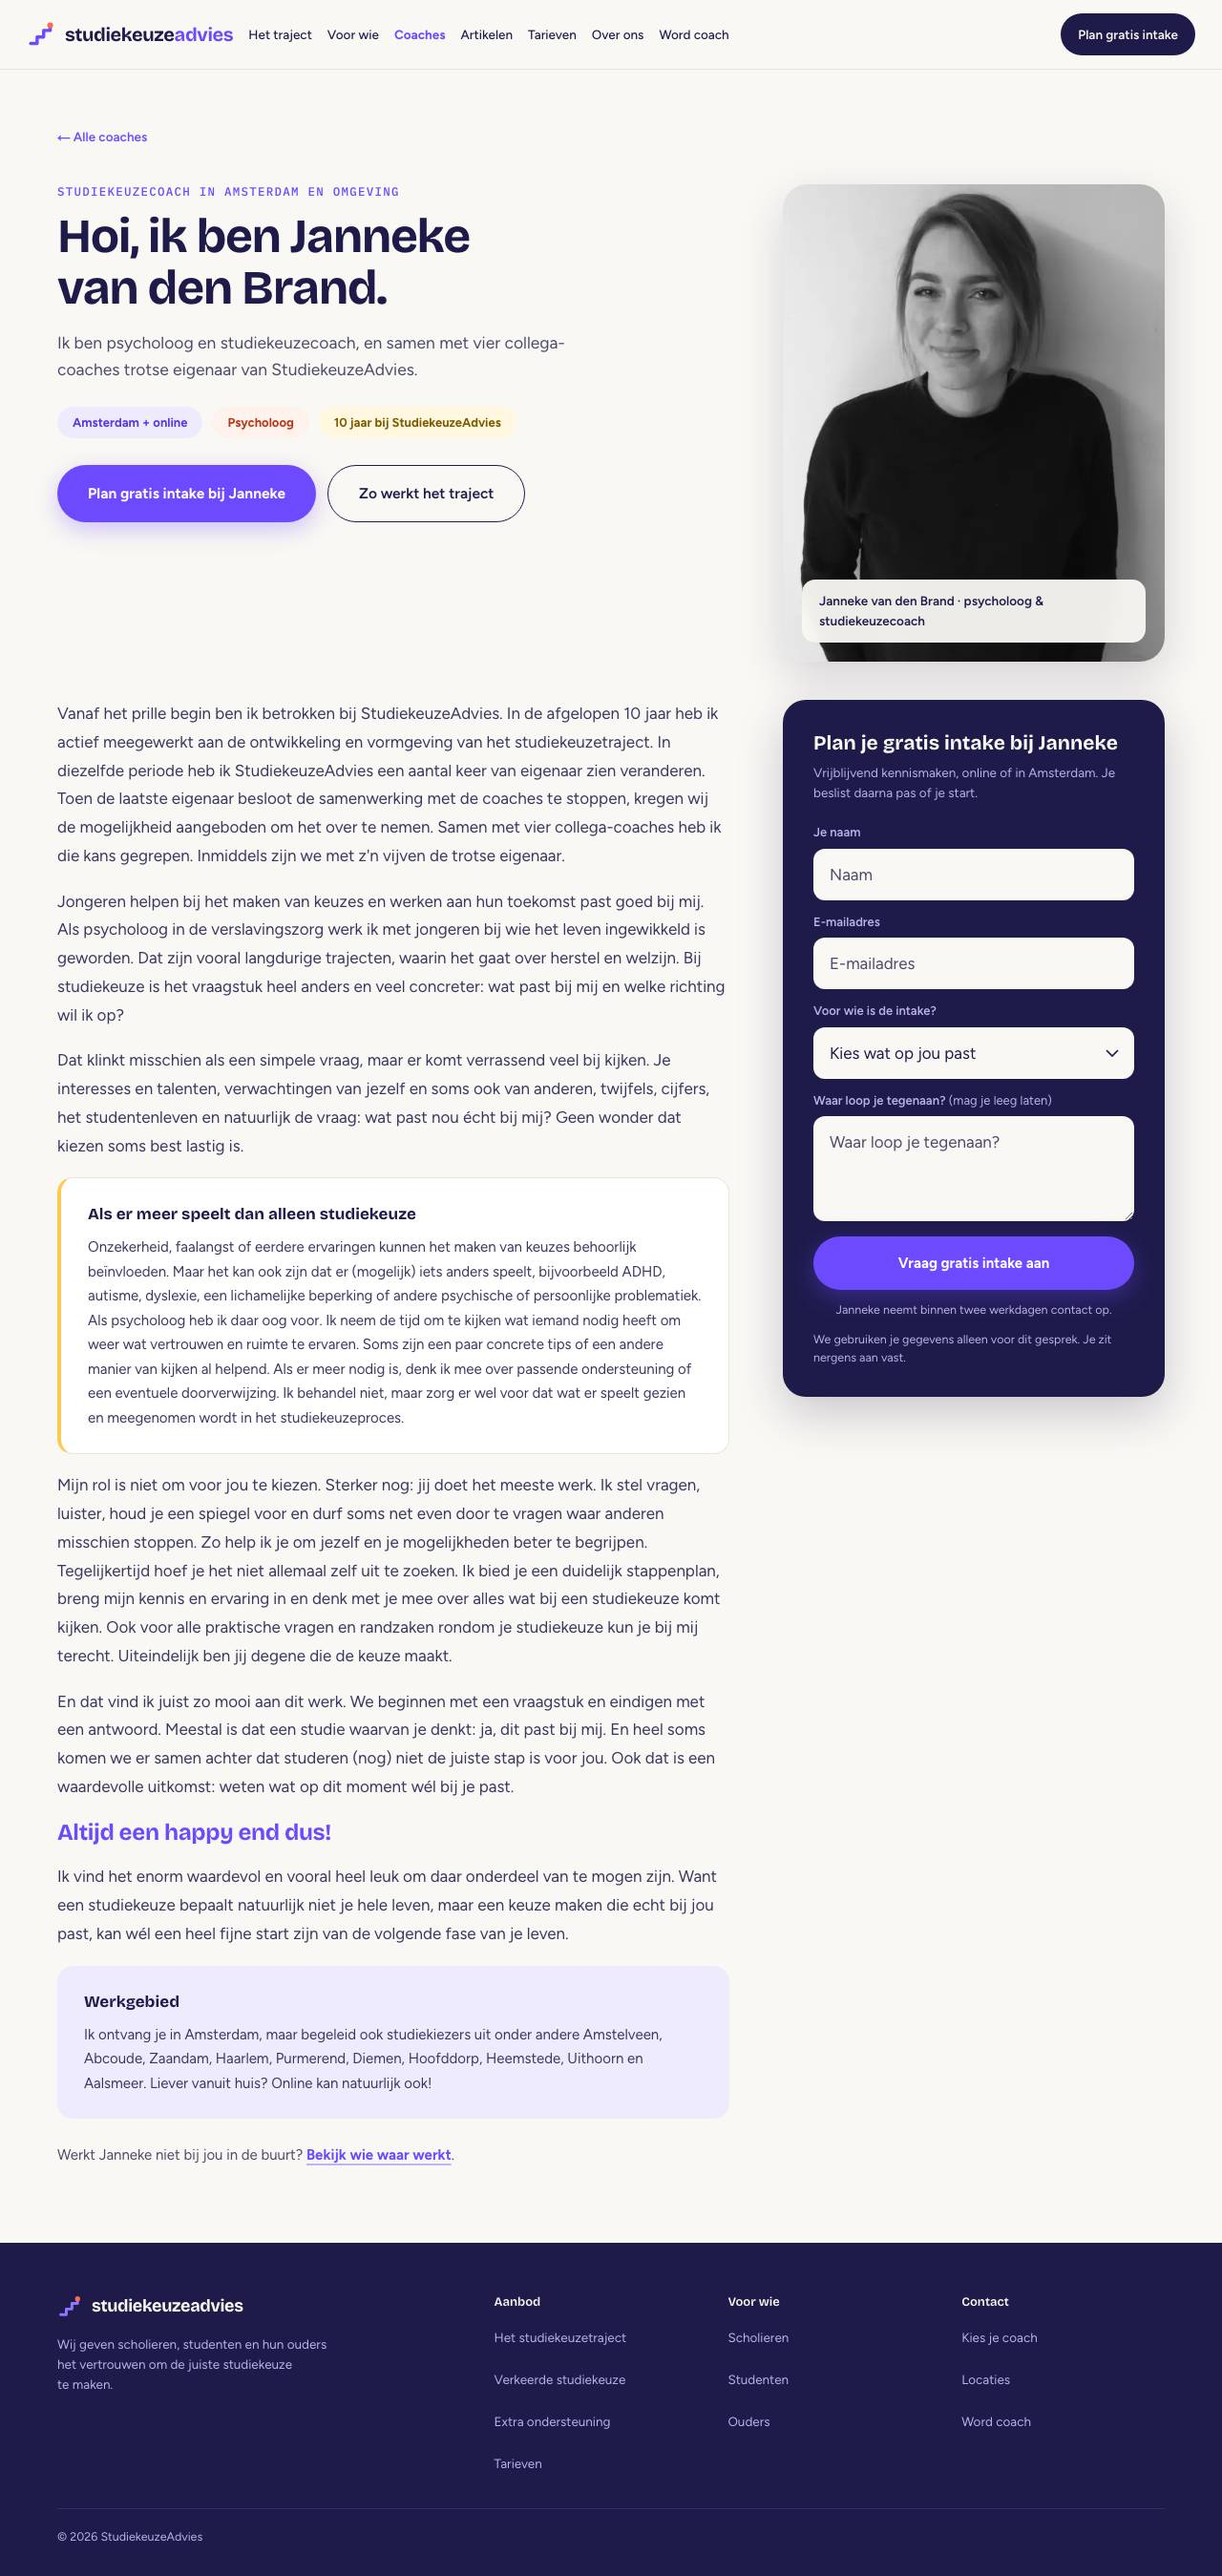
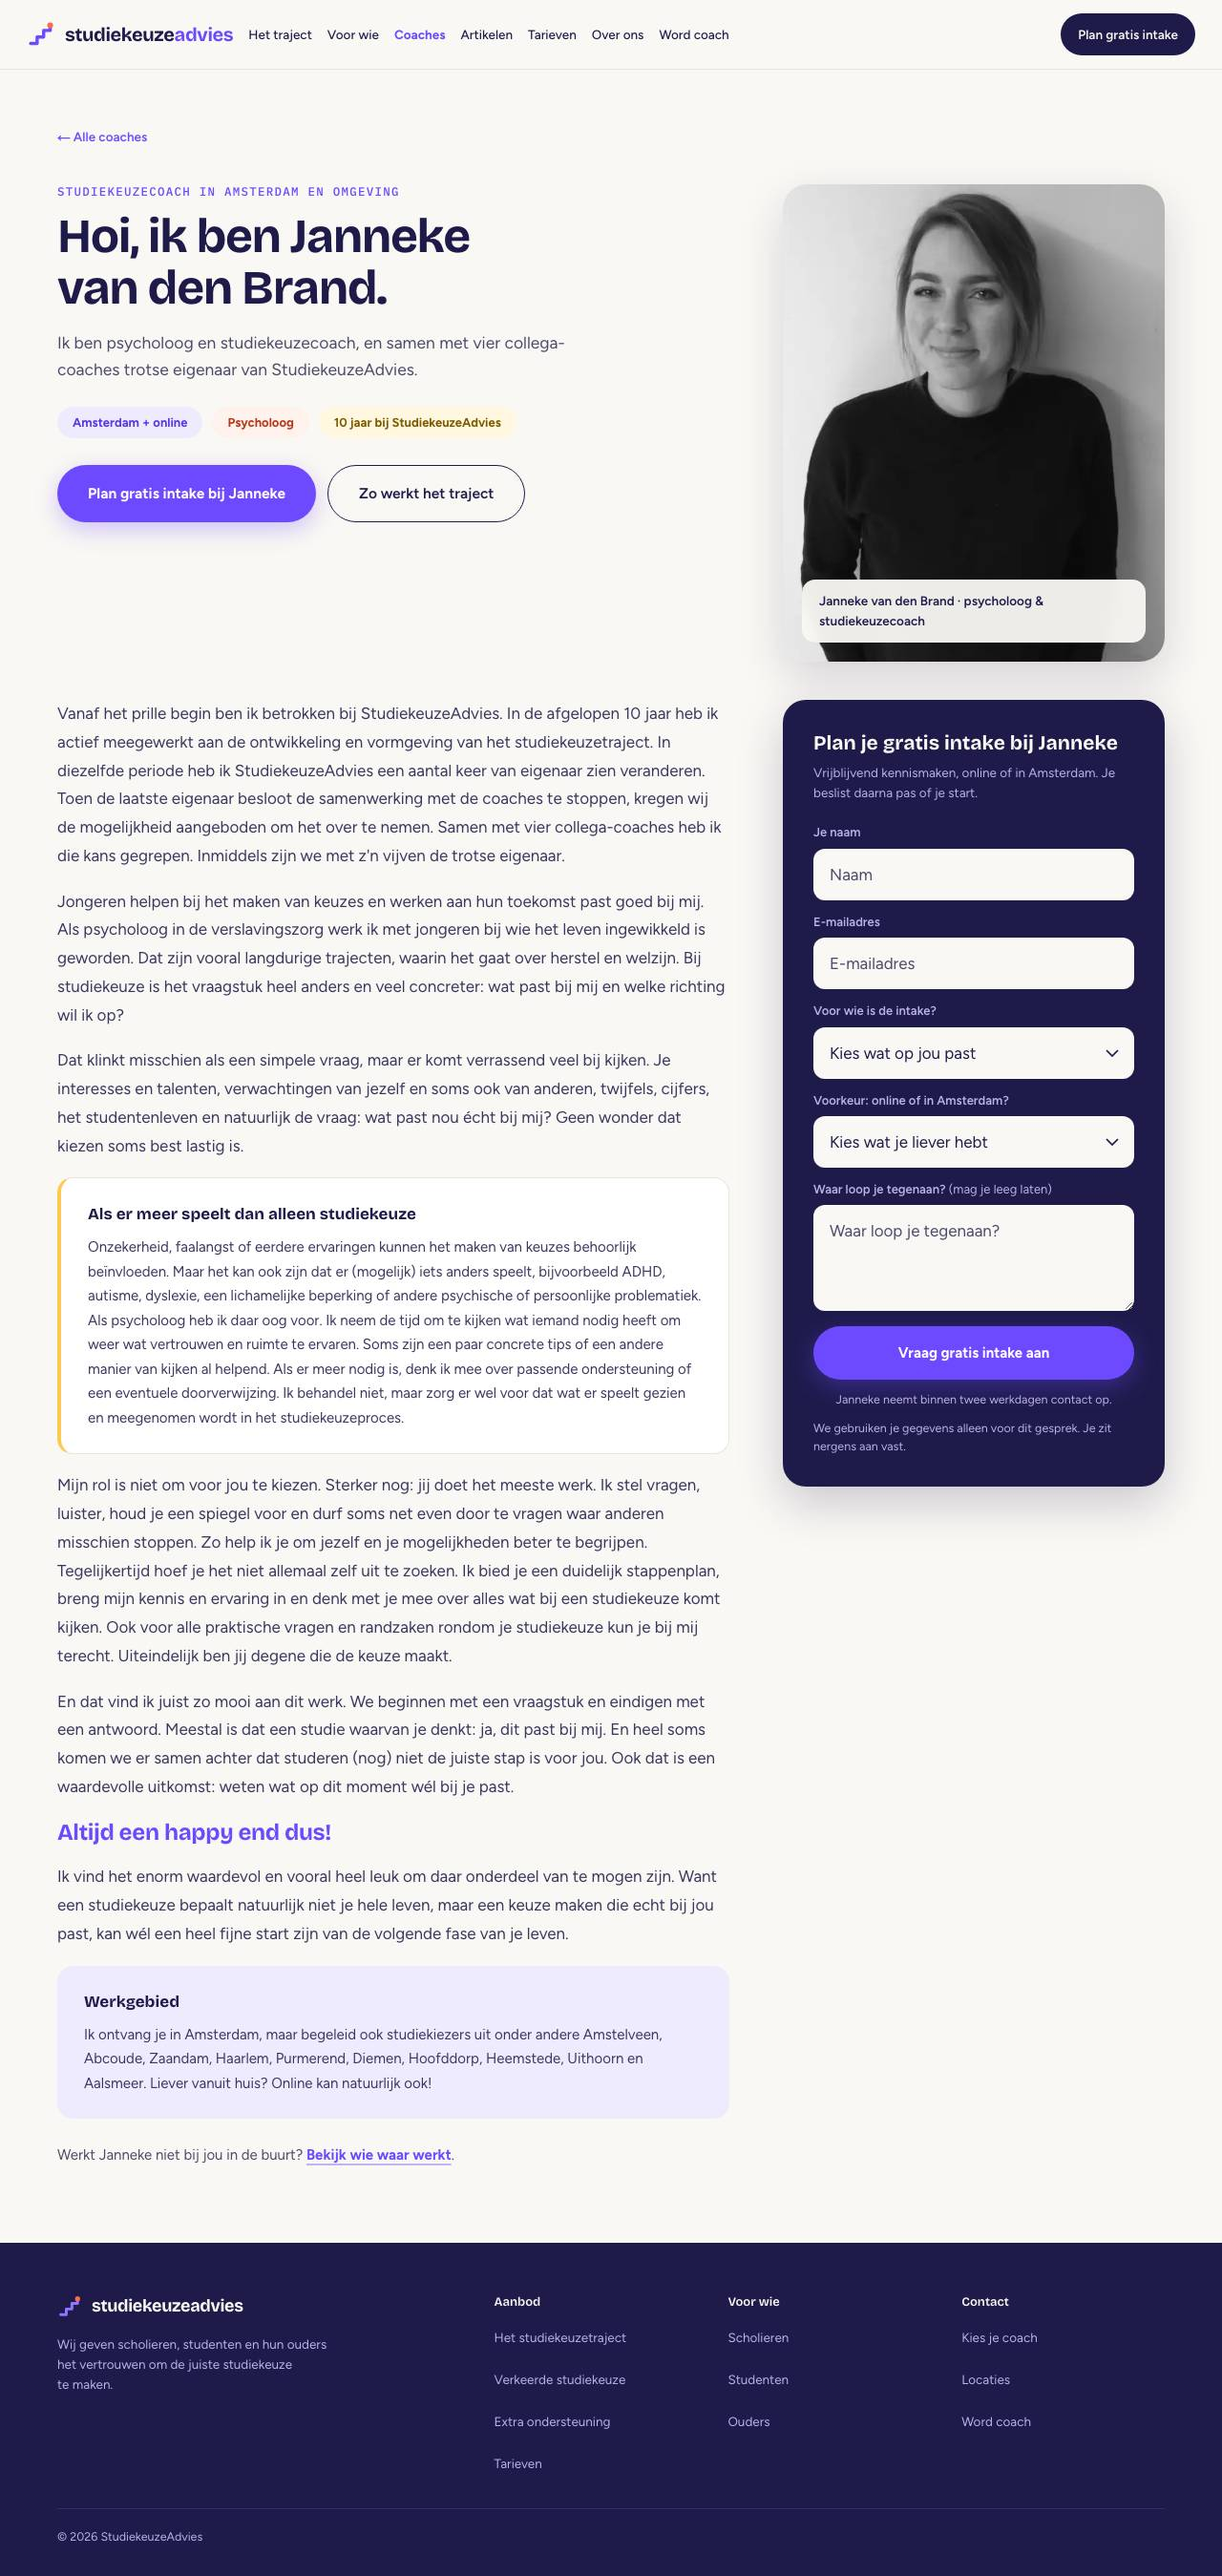
Restore the three lines that drifted from the client's copy
The copy review found three changes with no recorded reason. This puts the
client's text back:

- Janneke's intake card asks its second question again, "Voorkeur: online
  of in Amsterdam?" (Online / In Amsterdam / Geen voorkeur). It is the new
  optional `voorkeur` field; the town comes from the coach or the city the
  form sends to, and the mail prints the answer under the situation.
- /coach-worden says "een van de vijf eigenaren" again, as Janneke's page
  already counts them.
- The traject pill reads "Praktijkgericht & betrouwbaar" again.

Proof: 69 page checks pass, two test submissions printed the mail with
"Voorkeur: In Amsterdam" and "Voorkeur: niet ingevuld", and the four
changed routes are re-shot in docs/screenshots/redesign.

Claude-Session: https://claude.ai/code/session_01R5zUNLuiKtJdkCkEx6na79

Changed region(s): [[0.625, 0.4359, 0.9688, 0.5915]]

diff --git a/app/components/intake-form.tsx b/app/components/intake-form.tsx
@@ -2,7 +2,12 @@
 
 import { useActionState, useEffect, useId, useRef } from "react";
 import { requestIntake } from "../actions";
-import { intakeInitialState, situaties, spamGuard } from "../intake";
+import {
+  intakeInitialState,
+  situaties,
+  spamGuard,
+  voorkeuren,
+} from "../intake";
 
 /**
  * The intake card of the client's design (design-spec 3.19): an indigo card
@@ -20,12 +25,13 @@ import { intakeInitialState, situaties, spamGuard } from "../intake";
  *
  * THE FIELDS ARE THE CLIENT'S, WITH ONE SUBSTITUTION. The client's card asks
  * for a name, an e-mail, "voor wie is de intake", a preference (online or in
- * the city) and a message. The first, the second and the last are the same
- * here. "Voor wie" becomes the `situatie` select, because that is the field
- * `requestIntake` validates and mails, and its four options carry the same
- * answer (one of them is "Ik ben ouder of verzorger"). The preference select
- * is not built: no field of the server action carries it, so it would be a
- * question with no reader. See sharedNeeds.
+ * the city) and a message. The first, the second, the fourth and the last are
+ * the same here. "Voor wie" becomes the `situatie` select, because that is the
+ * field `requestIntake` validates and mails, and its four options carry the
+ * same answer (one of them is "Ik ben ouder of verzorger"). The preference
+ * select is the client's "Voorkeur: online of in Amsterdam?", with `place`
+ * standing in for Amsterdam; it is optional, as it is in the client's export,
+ * and it is printed in the mail so the coach can open with the right offer.
  *
  * THE TELEPHONE FIELD IS GONE. The client's card does not ask for a number,
  * `requestIntake` has always treated it as optional, and the card is sticky on
@@ -47,6 +53,7 @@ const errorBase = "text-[0.8125rem] text-coral-soft";
 export function IntakeForm({
   coachName,
   route,
+  place = null,
   title,
   lede,
   helper,
@@ -54,6 +61,9 @@ export function IntakeForm({
 }: {
   coachName: string | null;
   route: string;
+  /** The town the coach works in, for "online of in Amsterdam?". Without it
+   *  the question says "op locatie". */
+  place?: string | null;
   /** The heading of the card. A coach page names the coach in it. */
   title?: string;
   /** The sentence under the heading. */
@@ -271,6 +281,46 @@ export function IntakeForm({
           {state.errors.situatie && (
             <p className={errorBase} id={errorId("situatie")}>
               {state.errors.situatie}
+            </p>
+          )}
+        </div>
+
+        <div className="flex flex-col gap-1.5">
+          <label className={labelBase} htmlFor={field("voorkeur")}>
+            Voorkeur: online of {place ? `in ${place}` : "op locatie"}?
+          </label>
+          <div className="relative">
+            <select
+              aria-describedby={
+                state.errors.voorkeur ? errorId("voorkeur") : undefined
+              }
+              aria-invalid={Boolean(state.errors.voorkeur)}
+              className={`${fieldBase} appearance-none pr-11`}
+              defaultValue={state.values.voorkeur}
+              id={field("voorkeur")}
+              name="voorkeur"
+            >
+              <option value="">Kies wat je liever hebt</option>
+              {voorkeuren.map((v) => (
+                <option key={v.value} value={v.value}>
+                  {v.label(place)}
+                </option>
+              ))}
+            </select>
+            <svg
+              aria-hidden="true"
+              className="pointer-events-none absolute top-1/2 right-4 -translate-y-1/2 text-ink"
+              fill="none"
+              height="8"
+              viewBox="0 0 14 8"
+              width="14"
+            >
+              <path d="M1 1l6 6 6-6" stroke="currentColor" strokeWidth="1.75" />
+            </svg>
+          </div>
+          {state.errors.voorkeur && (
+            <p className={errorBase} id={errorId("voorkeur")}>
+              {state.errors.voorkeur}
             </p>
           )}
         </div>

diff --git a/app/actions.ts b/app/actions.ts
@@ -15,6 +15,8 @@ import {
   type IntakeState,
   situaties,
   situatieLabel,
+  voorkeuren,
+  voorkeurLabel,
   spamGuard,
 } from "./intake";
 import { archiveInbox, type MailFailure, sendMail } from "./lib/mail";
@@ -143,6 +145,7 @@ export async function requestIntake(
     email: String(formData.get("email") ?? "").trim(),
     telefoon: String(formData.get("telefoon") ?? "").trim(),
     situatie: String(formData.get("situatie") ?? "").trim(),
+    voorkeur: String(formData.get("voorkeur") ?? "").trim(),
     bericht: String(formData.get("bericht") ?? "").trim(),
     voor: String(formData.get("voor") ?? "").trim(),
   };
@@ -161,6 +164,11 @@ export async function requestIntake(
   }
   if (!situaties.some((s) => s.value === values.situatie)) {
     errors.situatie = "Kies wat het beste bij je past.";
+  }
+  // Optional, so empty passes. Anything else has to be one of our three
+  // values: the select cannot produce another, so another means a script.
+  if (values.voorkeur && !voorkeuren.some((v) => v.value === values.voorkeur)) {
+    errors.voorkeur = "Kies online, op locatie, of geen voorkeur.";
   }
   if (values.naam.length > MAX_SHORT) errors.naam = TOO_LONG_SHORT;
   if (values.email.length > MAX_SHORT) errors.email = TOO_LONG_SHORT;
@@ -253,6 +261,14 @@ export async function requestIntake(
       `E-mail:   ${values.email}`,
       `Telefoon: ${values.telefoon || "niet ingevuld"}`,
       `Situatie: ${situatieLabel(values.situatie)}`,
+      `Voorkeur: ${
+        values.voorkeur
+          ? voorkeurLabel(
+              values.voorkeur,
+              destination.coach?.town ?? destination.cityName,
+            )
+          : "niet ingevuld"
+      }`,
       "",
       "Bericht:",
       values.bericht || "(geen bericht)",

diff --git a/app/intake.ts b/app/intake.ts
@@ -9,6 +9,7 @@ export type IntakeField =
   | "email"
   | "telefoon"
   | "situatie"
+  | "voorkeur"
   | "bericht"
   | "voor";
 
@@ -52,6 +53,8 @@ export type IntakeState = {
     email: string;
     telefoon: string;
     situatie: string;
+    /** Online, in the coach's town, or no preference. See `voorkeuren`. */
+    voorkeur: string;
     bericht: string;
     /** Where the request must go. See `IntakeRoute` below. */
     voor: string;
@@ -68,6 +71,7 @@ export const intakeInitialState: IntakeState = {
     email: "",
     telefoon: "",
     situatie: "",
+    voorkeur: "",
     bericht: "",
     voor: "",
   },
@@ -141,4 +145,24 @@ export const situaties = [
 
 export function situatieLabel(value: string): string {
   return situaties.find((s) => s.value === value)?.label ?? value;
+}
+
+/**
+ * The client's second question on the intake card: "Voorkeur: online of in
+ * Amsterdam?". The town is not in the label here, because the form fills it
+ * in from the coach or the city it sends to; `voorkeurLabel` does the same
+ * for the mail. The question is optional, as it is in the client's export:
+ * only the name and the e-mail stop a request.
+ */
+export const voorkeuren = [
+  { value: "online", label: () => "Online" },
+  {
+    value: "locatie",
+    label: (place: string | null) => (place ? `In ${place}` : "Op locatie"),
+  },
+  { value: "geen-voorkeur", label: () => "Geen voorkeur" },
+] as const;
+
+export function voorkeurLabel(value: string, place: string | null): string {
+  return voorkeuren.find((v) => v.value === value)?.label(place) ?? value;
 }

diff --git a/app/coach-worden/page.tsx b/app/coach-worden/page.tsx
@@ -260,7 +260,7 @@ export default function CoachWordenPage() {
                   <p className="font-display font-bold">Hoe het verder gaat</p>
                   <p className="text-card mt-2 text-muted-read">
                     Na je aanmelding plannen we een kennismakingsgesprek met een
-                    van de eigenaren. Klikt het van beide kanten? Dan bespreken
+                    van de vijf eigenaren. Klikt het van beide kanten? Dan bespreken
                     we de licentie, je regio en de onboarding in de methode.
                   </p>
                 </div>

diff --git a/app/components/contact-section.tsx b/app/components/contact-section.tsx
@@ -110,6 +110,7 @@ export function ContactSection({ city }: { city?: string }) {
               coachName={coach.name}
               helper={`${coach.name} neemt binnen twee werkdagen contact op.`}
               lede={`Vrijblijvend kennismaken, online of in ${known.name}. ${coach.name} leest zelf wat je invult, en je beslist daarna pas of je start.`}
+              place={known.name}
               route={encodeIntakeRoute({ kind: "stad", slug: known.slug })}
               title={`Plan je gratis intake bij ${coach.name}`}
             />

diff --git a/app/studiekeuzecoaches/[coach]/page.tsx b/app/studiekeuzecoaches/[coach]/page.tsx
@@ -227,6 +227,7 @@ export default async function CoachProfilePage(
                     : `${coach.name} neemt contact met je op.`
                 }
                 lede={profile.formLede}
+                place={coach.town}
                 route={encodeIntakeRoute({ kind: "coach", slug: coach.slug })}
                 title={profile.formTitle}
               />

diff --git a/app/traject.ts b/app/traject.ts
@@ -80,7 +80,7 @@ export const tests = {
   pills: [
     "Persoonlijkheidstest",
     "Studie-interessetest",
-    "Praktijkgericht en betrouwbaar",
+    "Praktijkgericht & betrouwbaar",
   ],
 } as const;
 

diff --git a/docs/redesign/COPY-REVIEW.md b/docs/redesign/COPY-REVIEW.md
@@ -171,6 +171,8 @@ Matches: eyebrow, h1, lede, `Meld je aan`, `Bekijk onze methode`, `In het kort` 
 
 ## DRIFT: fix instructions, most visible first
 
+All three were applied on 2026-08-22, in the commit after the one that added this report. The form question is the `voorkeur` field in `app/intake.ts`; it is optional, the select takes its town from the coach or the city the form sends to, and the mail prints it as `Voorkeur: In Amsterdam` or `Voorkeur: niet ingevuld`.
+
 1. **Janneke's intake form lost the client's second question.** `app/components/intake-form.tsx` (with `app/intake.ts` for the values and `app/actions.ts` for validation and the mail body): add the select `Voorkeur: online of in Amsterdam?` with options `Online`, `In Amsterdam`, `Geen voorkeur`, where "Amsterdam" is the coach's town (`coach.town`), so the form that says "online of in Amsterdam" in its lede also asks it. If the question is left out on purpose, add a row to `docs/decisions.md`.
 2. **"een van de vijf eigenaren" became "een van de eigenaren".** `app/coach-worden/page.tsx` lines 262-263: restore `met een van de vijf eigenaren`. The client's number also stands on `/studiekeuzecoaches/janneke` ("met z'n vijven"). If the count was dropped on purpose (REVIEW §3.7, the four others are unnamed), record it, and then Janneke's page is the one that disagrees.
 3. **"Praktijkgericht & betrouwbaar" became "Praktijkgericht en betrouwbaar".** `app/traject.ts` line 83: restore `Praktijkgericht & betrouwbaar`, or write the ampersand rule into DESIGN.md and then also change the caption `psycholoog & studiekeuzecoach` in `app/studiekeuzecoaches/[coach]/profiles.ts` line 77.
